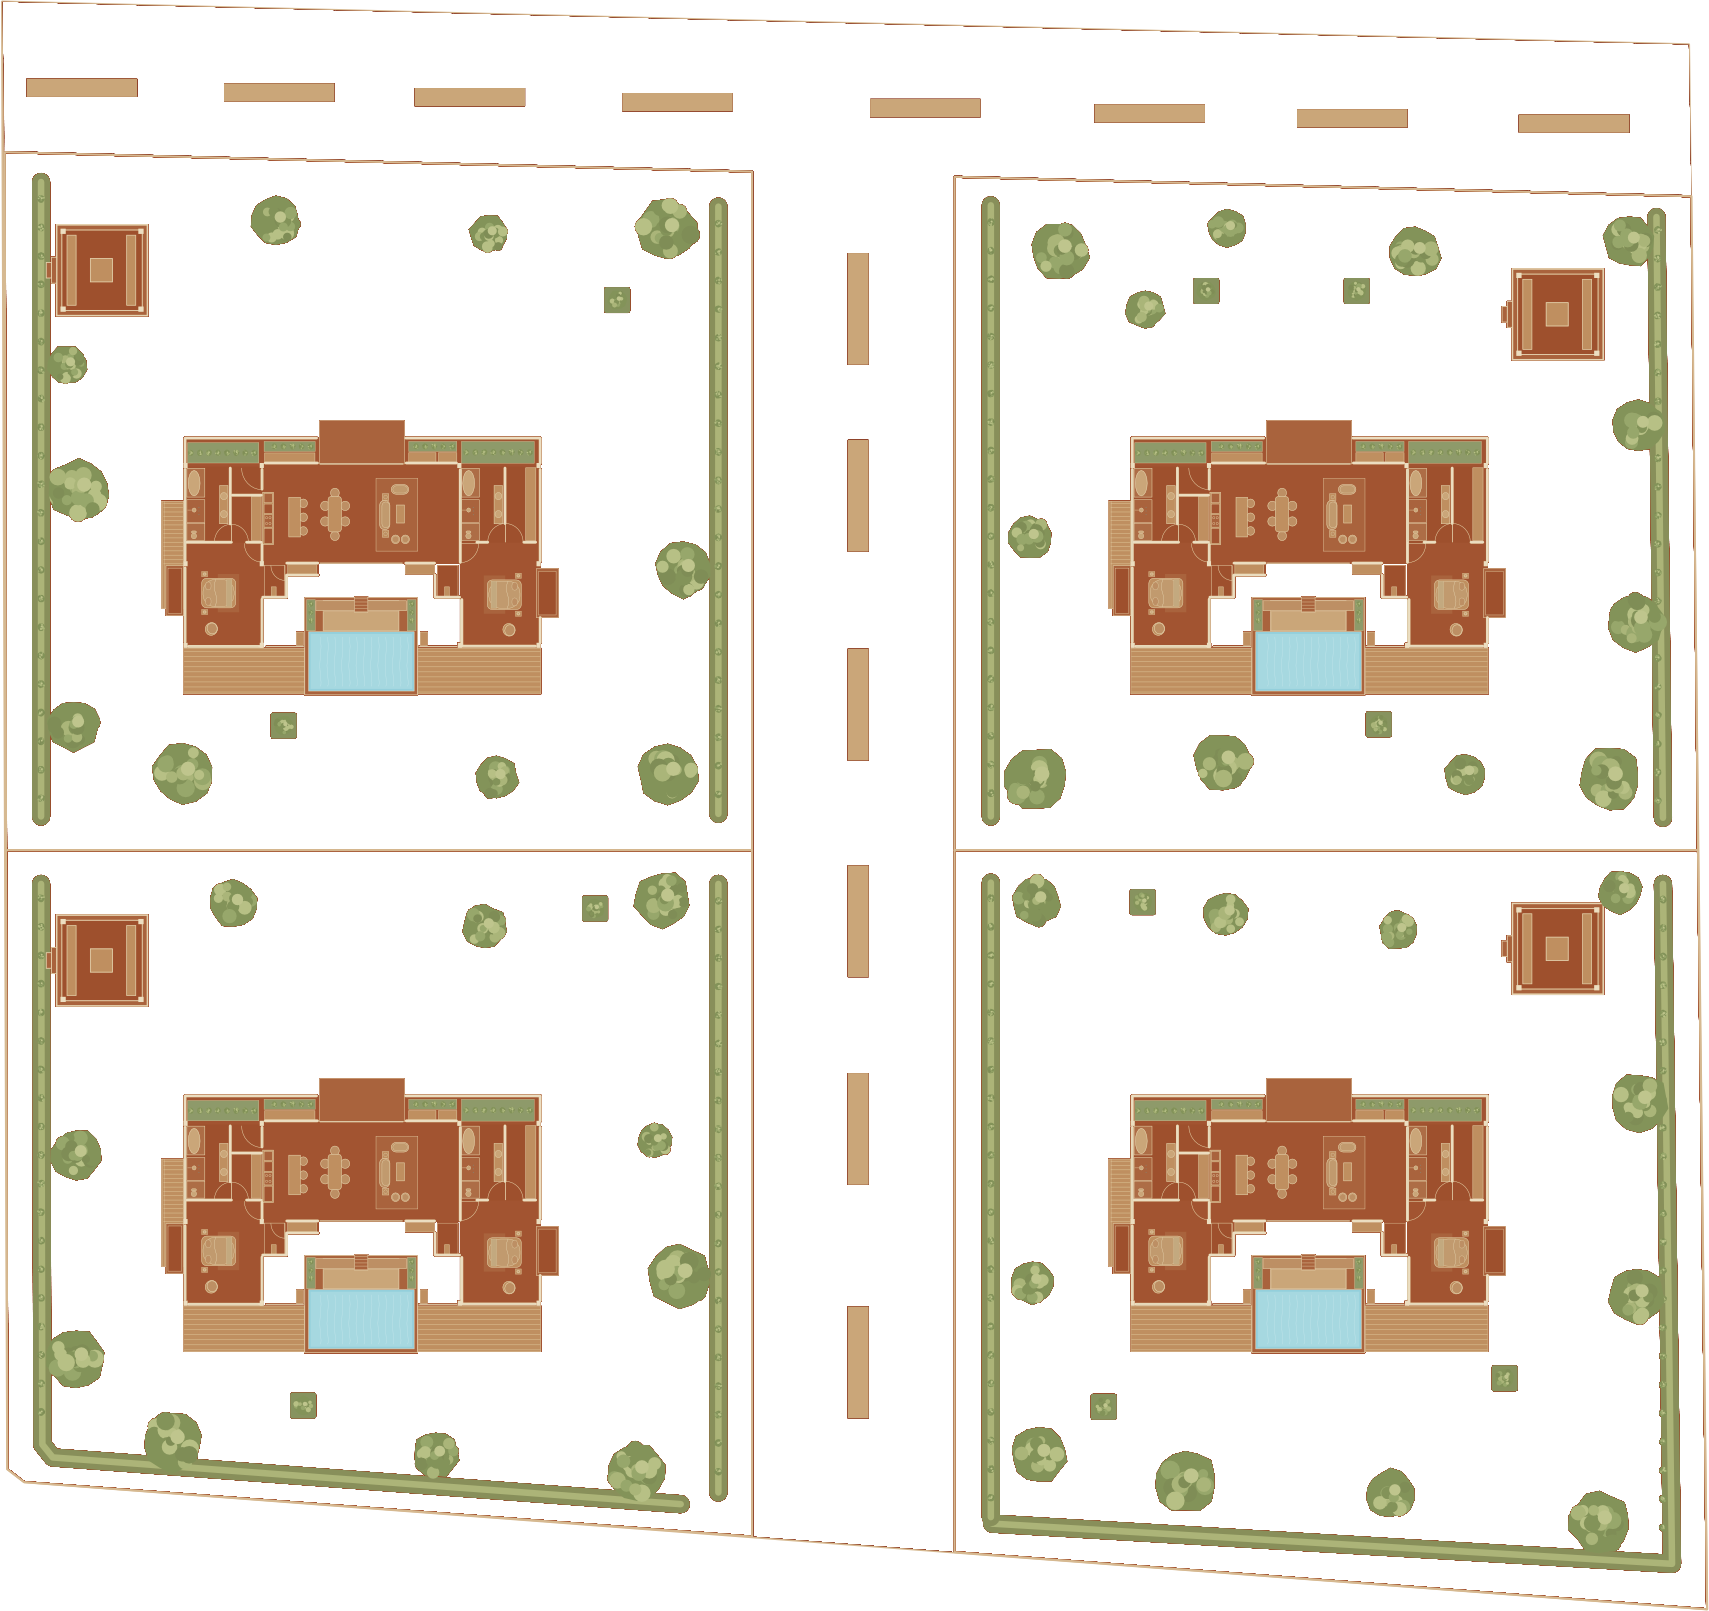
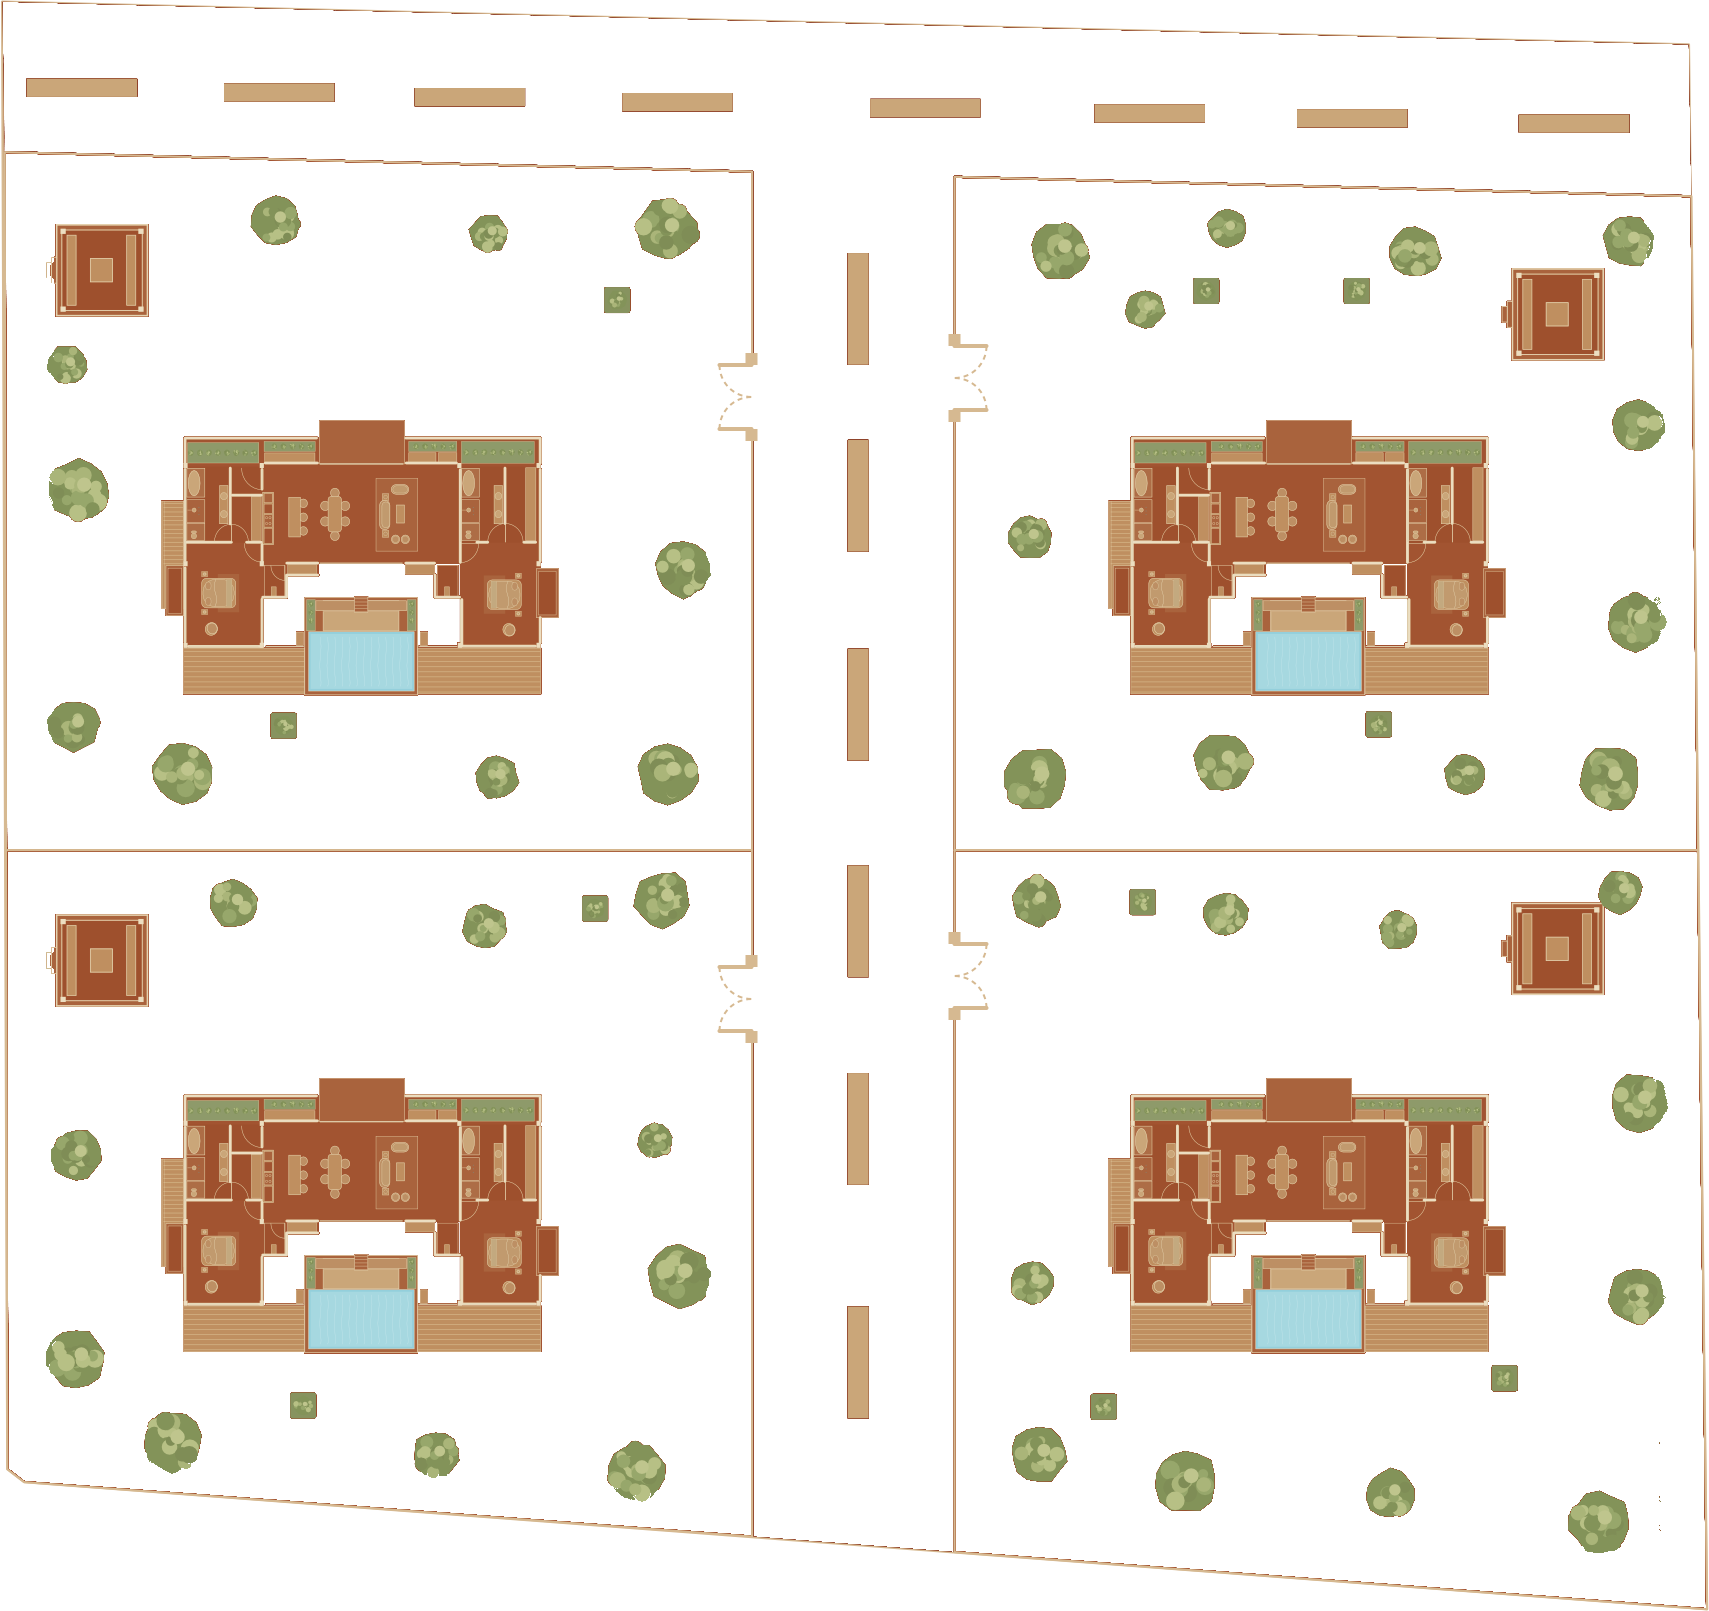
Master plan: remove the boundary hedges and add each plot's entry gate on the central road
Claude-Session: https://claude.ai/code/session_01CeNxHXC7xbrvAVUy3UxxkZ

diff --git a/index.html b/index.html
@@ -1153,7 +1153,7 @@
             <div class="mp__canvas" data-cursor="Explore">
               <img
                 data-pic="masterplan"
-                alt="Master plan: four farmhouse plots, each with its villa, pool, gazebo and trees, in pairs either side of a central entry road"
+                alt="Master plan: four farmhouse plots, each with its villa, pool, gazebo and trees, in pairs either side of a central entry road, with each plot's gate opening onto the road"
                 sizes="(min-width: 900px) 720px, 100vw"
               />
               <button class="mp__spot" style="--x: 21.8%; --y: 20.7%" data-plot="03" aria-label="Plot 03, 20,590 sq ft">
